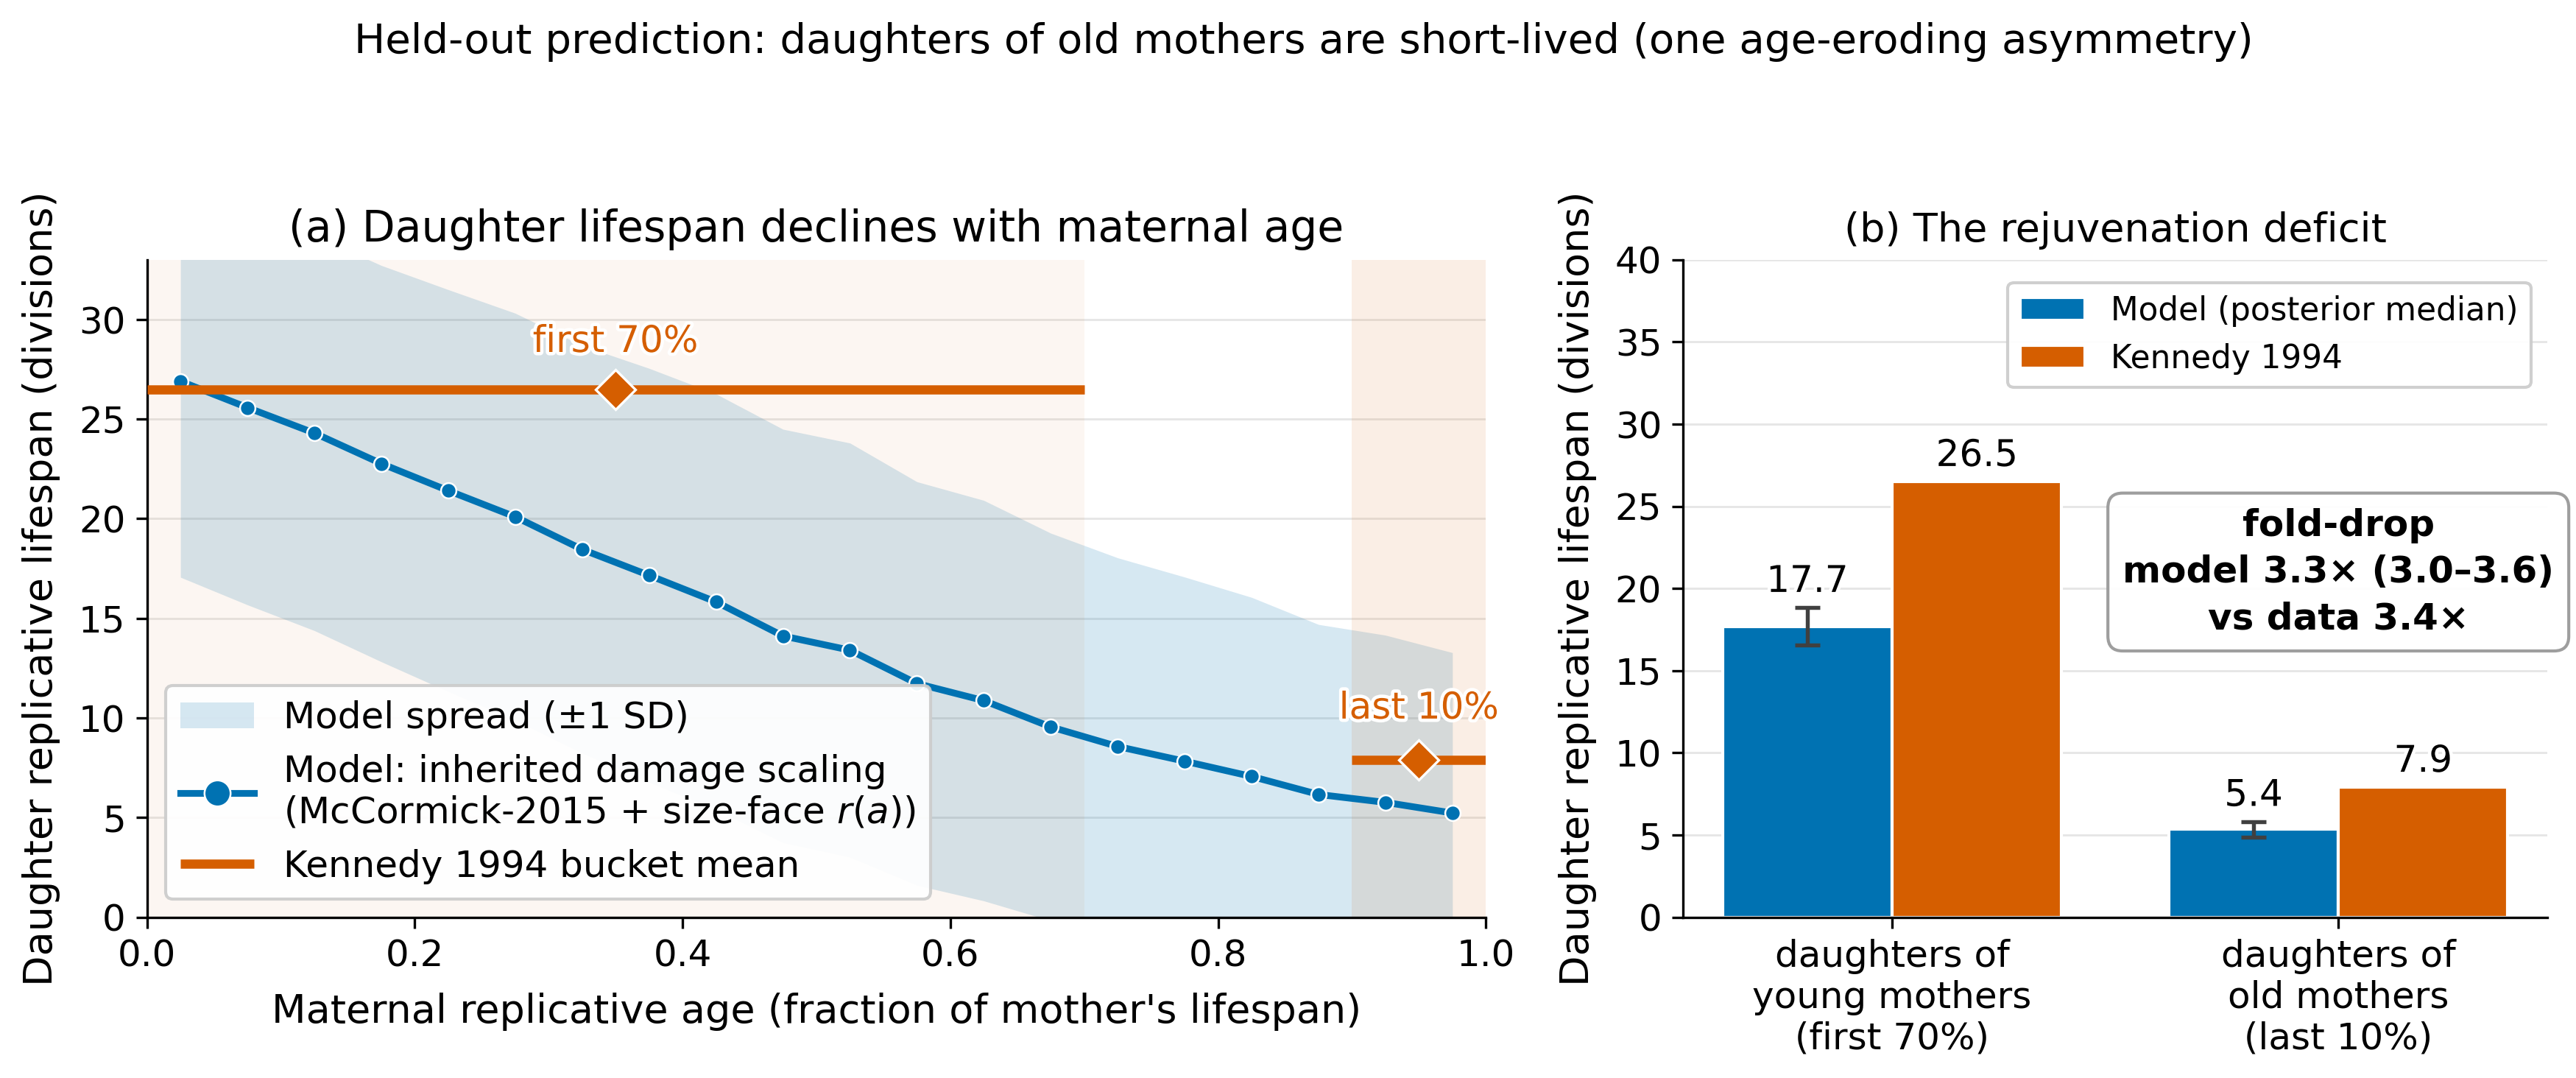
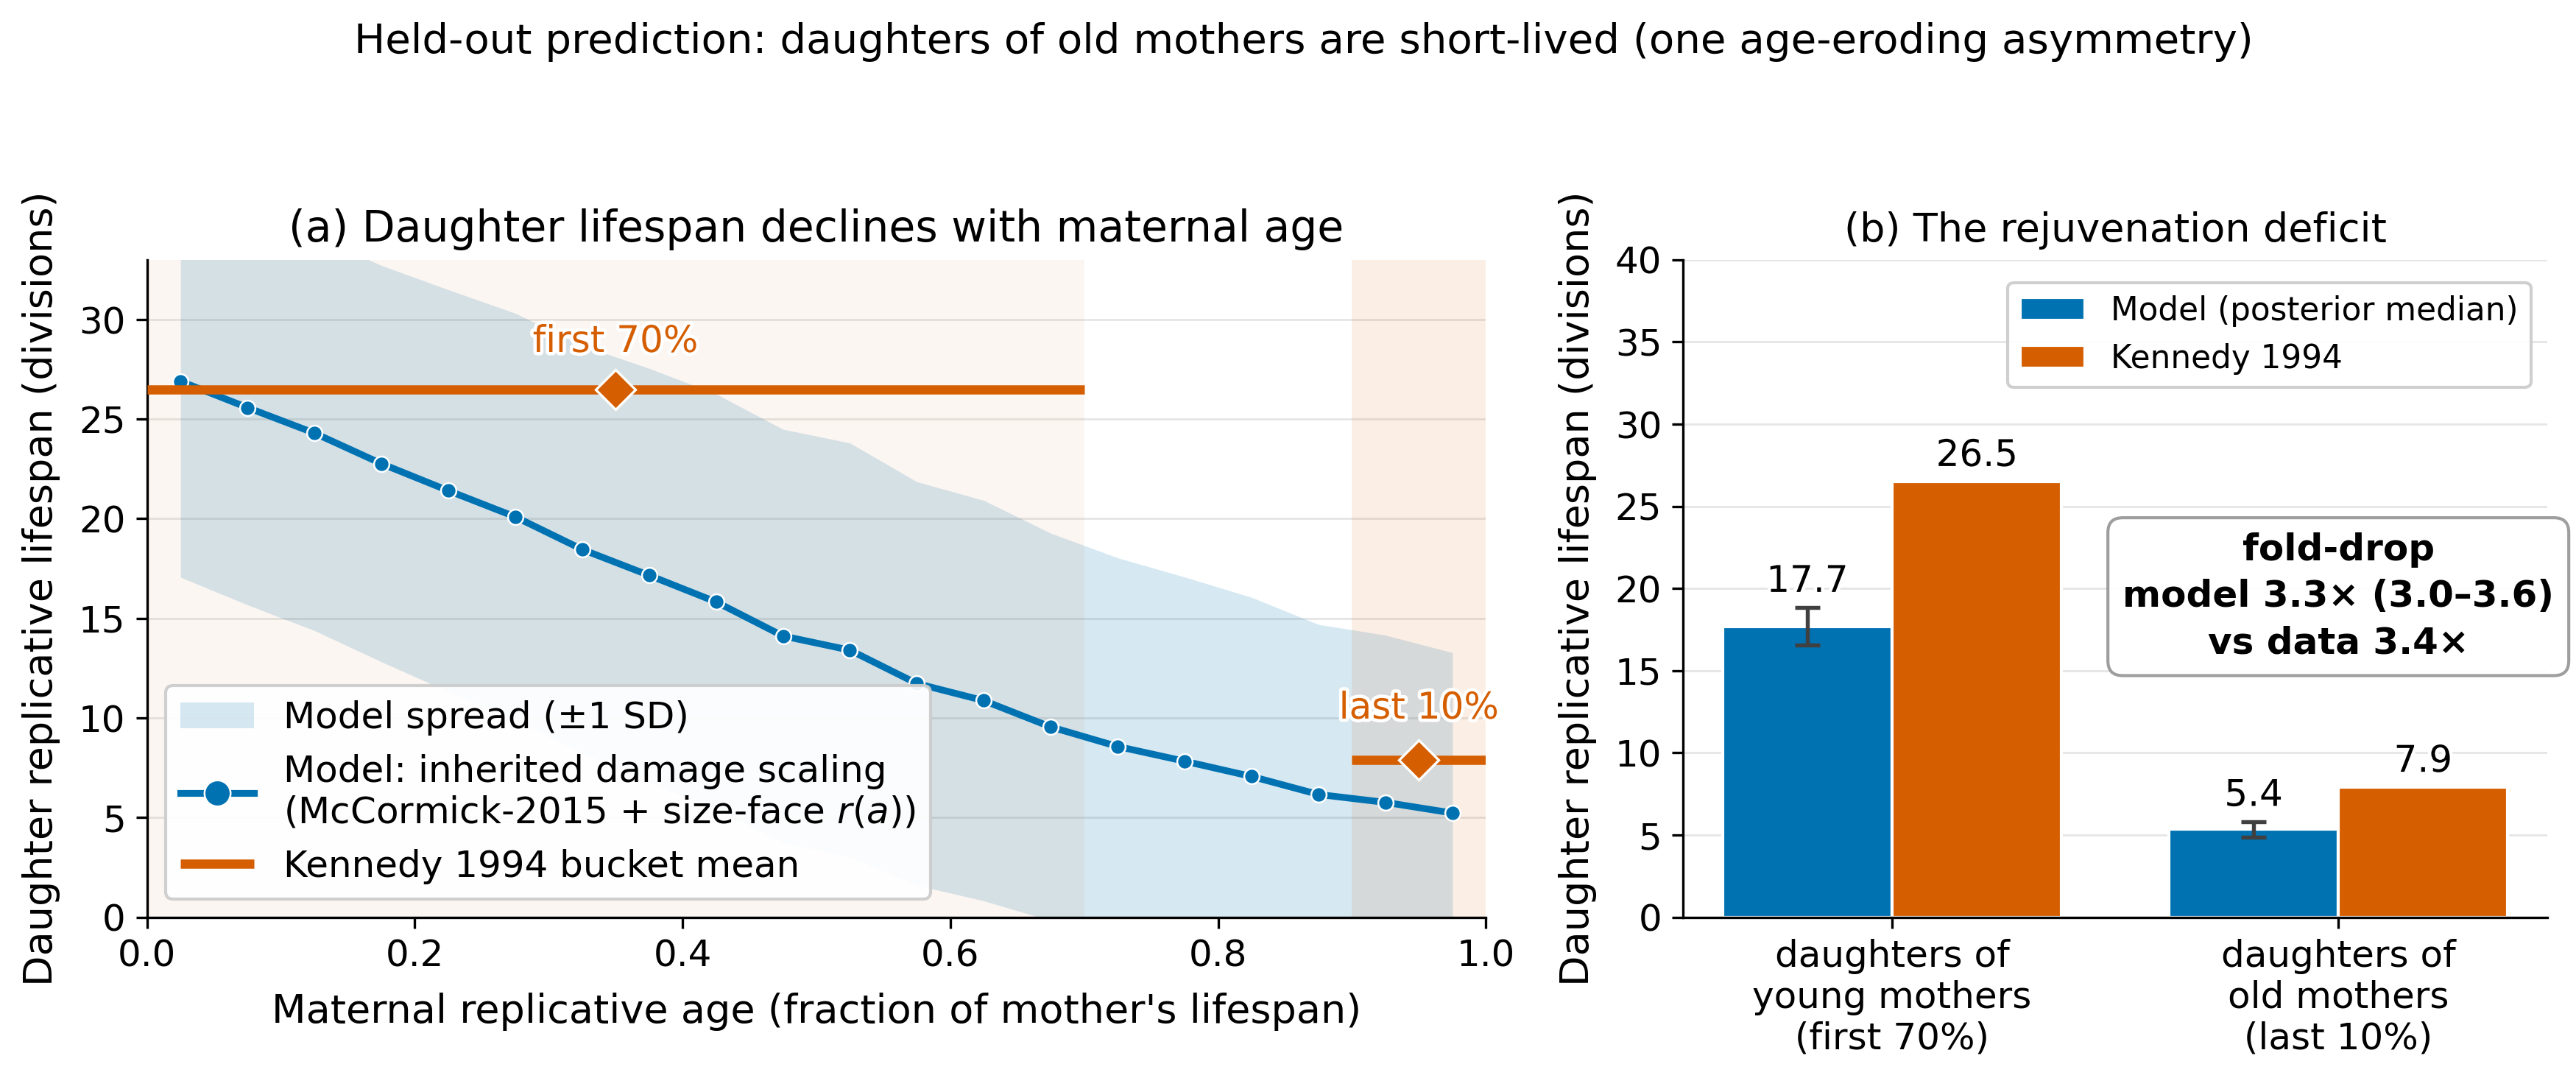
Lower the daughter-RLS fold-drop callout slightly

Changed region(s): [[0.8099, 0.4303, 1.0, 0.6455], [0.9969, 0.584, 1.0, 0.6148], [0.8099, 0.4611, 0.8411, 0.4918]]

diff --git a/analysis/plot_daughter_rls.py b/analysis/plot_daughter_rls.py
@@ -129,7 +129,7 @@ def main():
     axB.set_axisbelow(True)
     # Centered over the old-mother bar pair (data x=1.0, the divider between its blue/orange bars),
     # in the clear space above the short old-mother bars. Boxed for readability (not a halo hack).
-    axB.text(1.0, 21.0,
+    axB.text(1.0, 19.5,
              f"fold-drop\nmodel {model_fold:.1f}× ({fold_ci[1]:.1f}–{fold_ci[2]:.1f})"
              f"\nvs data {ken_fold:.1f}×",
              ha="center", va="center", fontsize=12, fontweight="bold", linespacing=1.4,